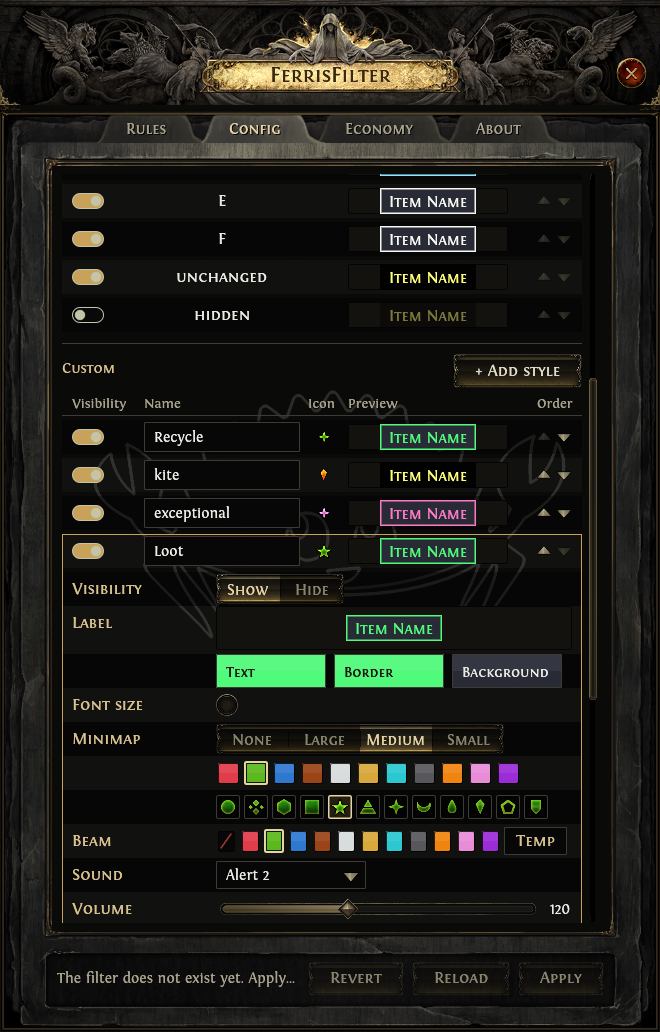
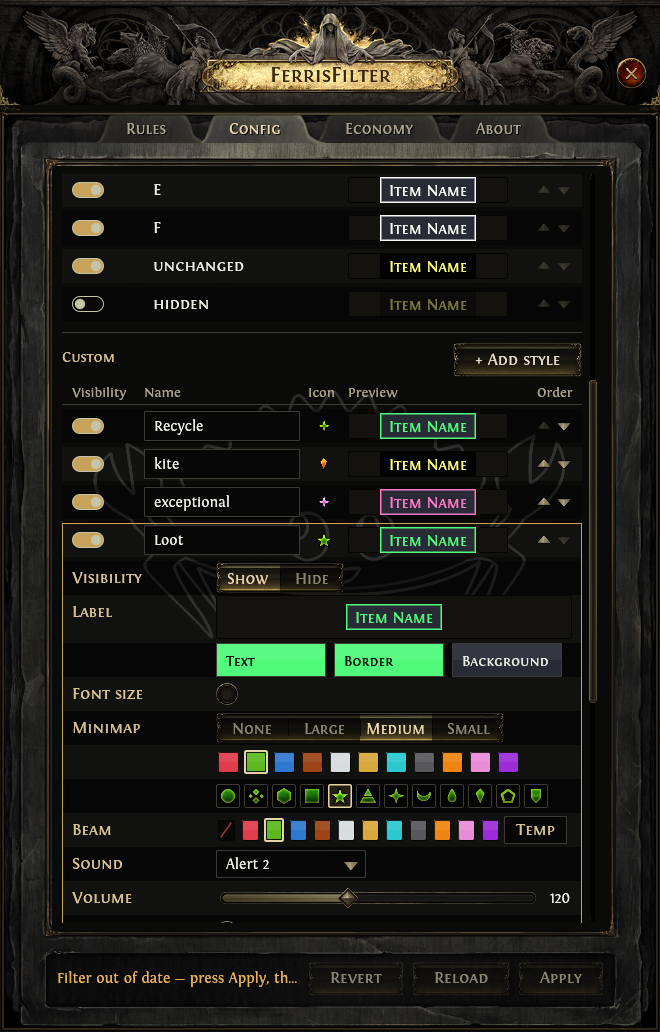
fix(33): built-in style names left-aligned; None tile on the quick-pick row
Built-in names were centred in their cell while the Name header and the
custom name fields start at the left edge; they now start at the custom
fields' text inset. The style picker's None tile wrapped onto a line of its
own; the quick-pick tiles shrink to 23pt when the None tile is shown so the
row of ten fits. Shots re-rendered.

Claude-Session: https://claude.ai/code/session_016M9qsaR7etMBDh279zy4Qx

diff --git a/src/skin/colour_picker.rs b/src/skin/colour_picker.rs
@@ -500,12 +500,13 @@ pub fn ff_colour_picker(
         });
     }
 
-    // Quick picks (and the None tile, on the same row only when it fits).
+    // Quick picks and, where the slot can be empty, the None tile: one row. The tiles shrink
+    // just enough (24 -> 23pt) for the tenth tile to fit the content width.
     ui.add_space(12.0);
-    let row_w = DRACULA.len() as f32 * TILE + (DRACULA.len() - 1) as f32 * TILE_GAP;
-    let none_inline = mode.allow_none && row_w + TILE_GAP + TILE <= CONTENT_W;
+    let tiles = DRACULA.len() + usize::from(mode.allow_none);
+    let tile = TILE.min(((CONTENT_W - (tiles - 1) as f32 * TILE_GAP) / tiles as f32).floor());
     let mut none_tile = |ui: &mut Ui| {
-        let r = ff_swatch(ui, None, false, vec2(TILE, TILE), "No colour")
+        let r = ff_swatch(ui, None, false, vec2(tile, tile), "No colour")
             .on_hover_text("No colour (game default)");
         probe("none", r.rect);
         if r.clicked() {
@@ -516,7 +517,7 @@ pub fn ff_colour_picker(
         ui.spacing_mut().item_spacing.x = TILE_GAP;
         for (name, c) in DRACULA {
             let selected = rgb == [c.r(), c.g(), c.b()];
-            let r = ff_swatch(ui, Some(c), selected, vec2(TILE, TILE), name).on_hover_text(name);
+            let r = ff_swatch(ui, Some(c), selected, vec2(tile, tile), name).on_hover_text(name);
             probe(&format!("quick:{name}"), r.rect);
             if r.clicked() && !selected {
                 rgb = [c.r(), c.g(), c.b()];
@@ -524,14 +525,10 @@ pub fn ff_colour_picker(
                 changed = true;
             }
         }
-        if none_inline {
+        if mode.allow_none {
             none_tile(ui);
         }
     });
-    if mode.allow_none && !none_inline {
-        ui.add_space(TILE_GAP);
-        ui.horizontal(|ui| none_tile(ui));
-    }
 
     // Footer.
     ui.add_space(12.0);

diff --git a/src/overlay/config_view.rs b/src/overlay/config_view.rs
@@ -611,6 +611,9 @@ fn probe(tag: &'static str, rect: egui::Rect) {
 fn probe(_tag: &'static str, _rect: egui::Rect) {}
 
 /// One table cell: a child ui over `rect` with `layout`.
+/// Where the text starts inside a custom style's name field; built-in names start there too.
+const NAME_TEXT_INSET: f32 = 9.0;
+
 fn cell_at<R>(
     ui: &mut egui::Ui,
     salt: &'static str,
@@ -872,8 +875,10 @@ fn style_row(
             if reorder.is_some() {
                 rename_field(ui, state, cfg, ctx, name, name_cell.width(), actions);
             } else {
-                ui.add_sized(
-                    vec2(name_cell.width(), 20.0),
+                // Left-aligned at the text inset of the custom rows' name fields, so the Name
+                // column reads as one edge in both groups.
+                ui.add_space(NAME_TEXT_INSET);
+                ui.add(
                     egui::Label::new(RichText::new(name).font(small_caps(17.0)).color(pal::VALUE))
                         .truncate()
                         .sense(egui::Sense::hover()),
